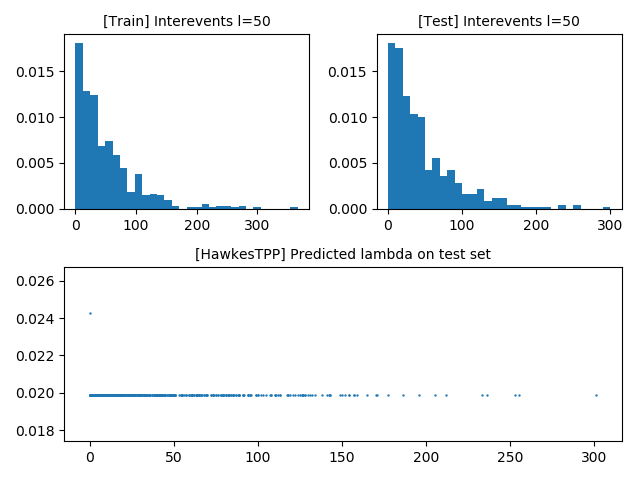
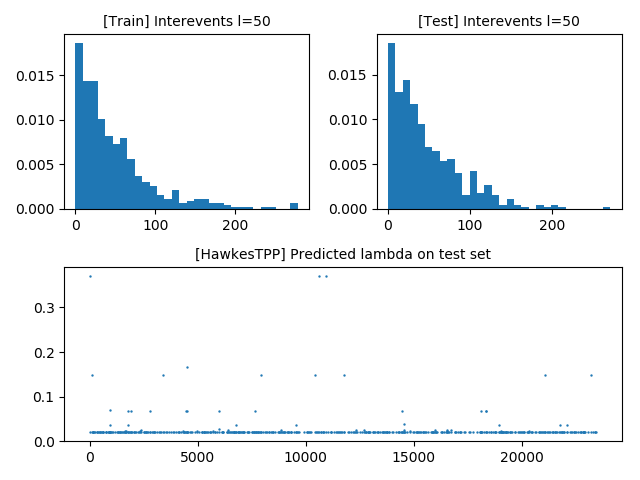
results update

diff --git a/src/generated_with_const_train.py b/src/generated_with_const_train.py
@@ -88,7 +88,7 @@ if __name__ == "__main__":
 
     train_time = torch.tensor(train_events).type('torch.FloatTensor').reshape(1, -1, 1)
     test_time = torch.tensor(test_events).type('torch.FloatTensor').reshape(1, -1, 1)
-    in_size = 50
+    in_size = 10
     out_size = 1
     no_epochs = 1000
 
@@ -96,8 +96,8 @@ if __name__ == "__main__":
         {'rule': 'Euler', 'no_step': 3, 'learning_rate': 0.001}
     ]
     models_to_evaluate = [
-        {'model': PoissonTPP, 'type': 'baseline', 'learning_param_map': learning_param_map},
-        {'model': PoissonPolynomialTPP, 'type': 'baseline', 'learning_param_map': learning_param_map},
+#        {'model': PoissonTPP, 'type': 'baseline', 'learning_param_map': learning_param_map},
+#        {'model': PoissonPolynomialTPP, 'type': 'baseline', 'learning_param_map': learning_param_map},
         {'model': IntereventRegressorTPP, 'type': 'baseline', 'learning_param_map': learning_param_map},
         {'model': HawkesTPP, 'type': 'baseline', 'learning_param_map': learning_param_map},
         {'model': HawkesSumGaussianTPP, 'type': 'baseline', 'learning_param_map': learning_param_map}

diff --git a/src/generated_with_step_train.py b/src/generated_with_step_train.py
@@ -56,7 +56,7 @@ if __name__ == "__main__":
 
     train_time = torch.tensor(train_events).type('torch.FloatTensor').reshape(1, -1, 1)
     test_time = torch.tensor(test_events).type('torch.FloatTensor').reshape(1, -1, 1)
-    in_size = 50
+    in_size = 10
     out_size = 1
     no_epochs = 1000
 
@@ -64,8 +64,8 @@ if __name__ == "__main__":
         {'rule': 'Euler', 'no_step': 3, 'learning_rate': 0.1}
     ]
     models_to_evaluate = [
-        {'model': PoissonTPP, 'type': 'baseline', 'learning_param_map': learning_param_map},
-        {'model': PoissonPolynomialTPP, 'type': 'baseline', 'learning_param_map': learning_param_map},
+        #{'model': PoissonTPP, 'type': 'baseline', 'learning_param_map': learning_param_map},
+        #{'model': PoissonPolynomialTPP, 'type': 'baseline', 'learning_param_map': learning_param_map},
         {'model': IntereventRegressorTPP, 'type': 'baseline', 'learning_param_map': learning_param_map},
         {'model': HawkesTPP, 'type': 'baseline', 'learning_param_map': learning_param_map},
         {'model': HawkesSumGaussianTPP, 'type': 'baseline', 'learning_param_map': learning_param_map}
